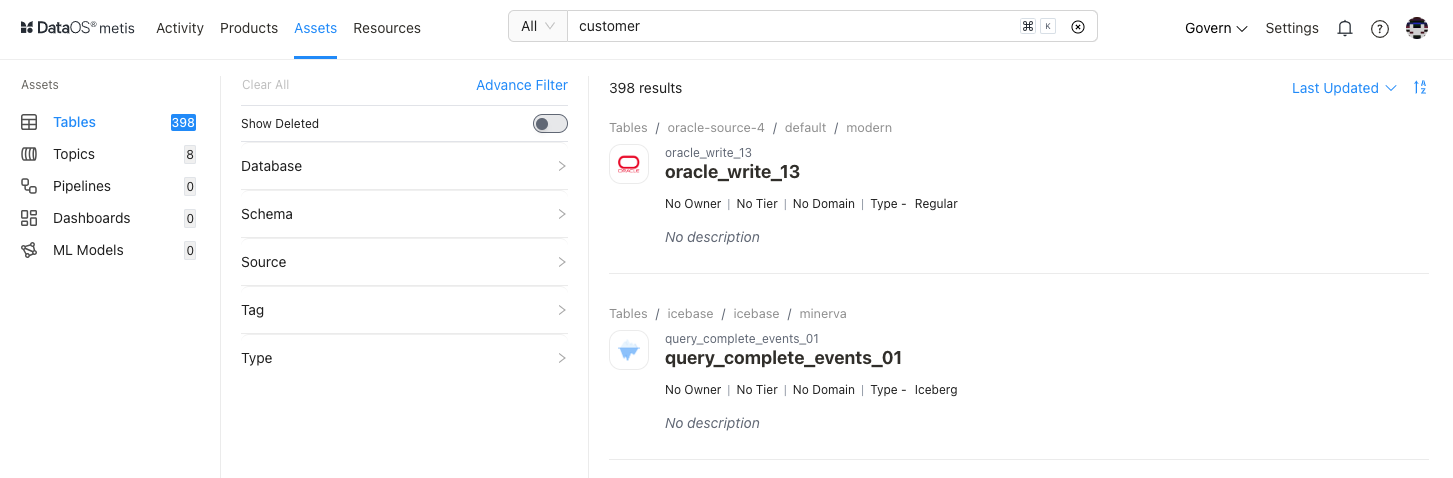
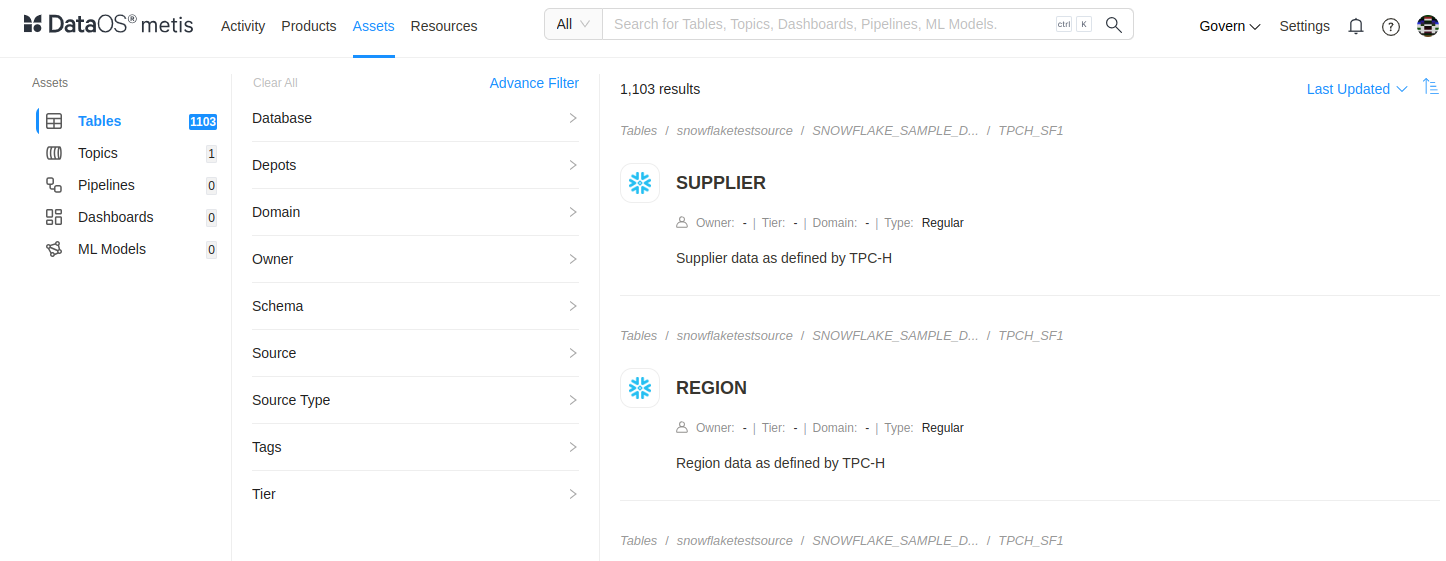
Metis UI Resources Lens and Features updated, mkdocs.yml updated with latest release changes

diff --git a/docs/interfaces/metis/metis_ui_resources/metis_resources_lenses.md b/docs/interfaces/metis/metis_ui_resources/metis_resources_lenses.md
@@ -1,0 +1,150 @@
+# Metadata of Lenses on Metis UI
+
+<aside class="callout">
+🗣 This page guides you on exploring and managing metadata for Lenses on Metis. 
+
+</aside>
+
+Metis has integrated "**Lens**" as a "Resource type" entity for storing metadata related to its entities. On selecting **Lens**, the following information will appear on the screen:
+
+![lenses.png](metis_resources_lenses/lenses.png)
+<figcaption align = "center"> List of Lenses  </figcaption>
+
+## Filter pane
+
+The filter pane allows you to filter the list of Lenses on the basis of the following attributes:
+
+| Attribute | Description |
+| --- | --- |
+| Advance Filter | Filter Lenses using the syntax editor, applying various criteria with 'and/or' conditions for a more refined search. |
+| Owner | Name of the user who created the Lens. |
+| Source | Source on top of which Lens is created. |
+| State | Lens state such as Active or Deleted. |
+| Tags | Filter the list for tags. |
+| Workspace | Workspace where the Lens is created, like public or user-specific. |
+
+## Result pane
+
+Here, Lenses will be listed. You can customize how the list is displayed. On top of the page, there are two options:
+
+| Option | Description |
+| --- | --- |
+| Search Result | Count of Lenses |
+| Sorting | Choose the Sorting order<br><ul><li>Last updated</li><br><li>Relevance</li><br><li>Ascending/Descending order</li></ul> |
+
+Each Lens in the list will display the following information:
+
+| Attribute | Description |
+| --- | --- |
+| Name | Lens name defined in the Resource manifest. |
+| Owner | Name of the user who created the Lens. |
+| Created | Time of creation of Lens |
+| Tier | Tier associated with the importance and criticality of Lens, such as Gold, Silver, etc. |
+| Domain | Associated domain, such as Finance, Marketing etc. |
+| Workspace | Workspace where the Lens is created like public or user-specific. |
+| State | Lens state such as Active or Deleted. |
+| Description | A description added to the Lens for its purpose. |
+| Tags | Associated tags |
+
+## Overview pane
+
+Click anywhere except the Lens name to view the overview pane. 
+
+![lens_overview.png](metis_resources_lenses/lens_overview.png)
+<figcaption align = "center"> Quick information  </figcaption>
+
+This includes the following quick reference information:
+
+| Attribute | Description |
+| --- | --- |
+| Name | Name of Lens, clicking on it will open its detail page in the new tab. |
+| Workspace | Workspace where Lens is created like public or user-specific. |
+| Version | Manifest Version |
+| State | Lens state such as Active or Deleted. |
+| Followers Count | Count of users who are following this Lens. |
+| Last updated | Date and time information when the Lens was last updated. |
+
+## Details Page
+
+In the Result or Overview pane, click on the name of the Lens to open the Resource Details page, which includes:
+
+![cluster_details.png](metis_resources_lenses/lens_details.png)
+<figcaption align = "center"> Comprehensive details  </figcaption>
+
+### **Cluster Information**
+In addition to basic Cluster information, the following details and options are provided.
+
+| Attribute | Description |
+| --- | --- |
+| Explore in Studio | Opens up Lens Studio for exploring the deployed Lens |
+| Iris | Opens up Iris dashboard |
+| Explore Assets | Explore assets on top of which Lens is built |
+| Meta Version | Provides information on the latest Meta version. Click to see the version history and corresponding updates.  |
+| Created | Time of creation of Lens |
+| Updated | Date and time information when the Lens was last updated  |
+| Follow | Gives the user an option to follow the Lens to receive updates and view its follower count. |
+| Learn | Provides an option to learn more about this specific resource type by redirecting to the documentation |
+| Delete | Gives the user the option to delete the Lens (click on three dots to access this option). |
+| Owner | Allow the user to edit the owner’s name. |
+| Tier | Gives the user an option to add/edit the tier information. |
+| Domain | Allows the user to add the predefined domain name. |
+| Tags | Add/Remove tags/glossary terms/tag groups. |
+| Request Tags Update (? icon) | Request updates in tags and assign users to do it. |
+| Description | Allows the user to edit the description |
+| Request Description Update (? icon) | Request updates in the description and assign users to do it |
+| Tasks | Option to view tasks created. In the side pane, the user will get the option to create a new task |
+| Conversations | View conversations in the side pane. The user will get the option to start a new conversation by clicking on the ‘+’ sign |
+
+The subsequent tabs will provide you with more detailed information, as explained in the following sections.
+
+### **Details**
+
+| Attribute | Description |
+| --- | --- |
+| Workspace | Workspace where Lens is created like public or user-specific |
+| Version | The specific version or release of the DataOS Lens Resource manifest |
+| State | Current state of the Resource such as Active or Deleted. |
+| Aggregate Status | Aggregate status of Lens |
+| Compute | Compute resources used for allocating processing power to Lens API instances, workers, and router |
+| Run As User | Authority granted to perform operations on behalf of the assigned user ID |
+| Life Cycle Events | Logs significant occurrences such as creation and deletion |
+
+### **Model**
+
+Renders a logical model of the deployed Lens.
+
+### **Permissions**
+
+Provides details related to the access permissions for the Lens.
+
+
+### **Activity Feeds & Tasks**
+
+This space lists all activities, including tasks and conversations around the specific Lens.
+
+### **Runtime**
+
+This section provides an overview of the Lens API Instances, Workers, and Router. 
+
+![lens_runtime.png](metis_resources_lenses/runtime.png)
+<figcaption align = "center">Runtime information </figcaption>
+
+You can access more details by clicking on the link.
+
+**{lens-name}-worker** 
+
+This option provides information about the Lens Worker instances.
+
+**{lens-name}-api**
+
+
+This option provides information about the Lens API instances.
+
+**{lens-name}-router**
+
+
+This option provides information about the Lens Router instances.
+
+### **Manifest**
+
+This section offers comprehensive information regarding the Lens's manifest. A manifest file, in this context, takes the form of a YAML configuration file. This file serves as the blueprint that defines the configuration settings for various DataOS Resources. 

diff --git a/docs/interfaces/metis/metis_ui_resources/metis_resources_clusters.md b/docs/interfaces/metis/metis_ui_resources/metis_resources_clusters.md
@@ -31,10 +31,7 @@ Here, Clusters will be listed. You can customize how the list is displayed. On t
 | Option | Description |
 | --- | --- |
 | Search Result | Count of Clusters |
-| Sorting | Choose the Sorting order
-- Last updated
-- Relevance
-- Ascending/Descending order. |
+| Sorting | Choose the Sorting order<br><ul><li>Last updated</li><br><li>Relevance</li><br><li>Ascending/Descending order</li></ul> |
 
 Each Cluster in the list will display the following information:
 
@@ -90,9 +87,9 @@ In addition to basic Cluster information, the following details and options are 
 | Domain | Allows the user to add the predefined domain name. |
 | State | Cluster state  |
 | Tags | Add/Remove tags/glossary terms/tag groups. |
-| Request Tags Update (?) | Request updates in tags and assign users to do it. |
+| Request Tags Update (? icon) | Request updates in tags and assign users to do it. |
 | Description | Allows the user to edit the description |
-| Request Description Update (?) | Request updates in the description and assign users to do it |
+| Request Description Update (? icon) | Request updates in the description and assign users to do it |
 | Tasks | Option to view tasks created. In the side pane, the user will get the option to create a new task |
 | Conversations | View conversations in the side pane. The user will get the option to start a new conversation by clicking on the ‘+’ sign |
 
@@ -109,9 +106,8 @@ The subsequent tabs will provide you with more detailed information, as explaine
 | Aggregate Status |  |
 | Compute | Compute resources used for allocating processing power; default is query-default |
 | Run As User | Authority granted to perform operations on behalf of the assigned user ID |
-| Configurations
-- Requests
-- Limits | CPU and Memory allocation |
+| Configurations <br><ul><li>Requests</li><br><li>Limits</li></ul> | CPU and Memory allocation |
+| Catalogs | List of queryable sources |
 | Life Cycle Events | Logs significant occurrences such as creation and deletion |
 
 ### **Activity Feeds & Tasks**

diff --git a/docs/interfaces/metis/metis_features.md b/docs/interfaces/metis/metis_features.md
@@ -25,7 +25,7 @@ With activity feeds, you can easily accomplish the following:
 
 ### **Search and Filter**
 
-Metis's search experience surfaces results across data assets, ML models, pipelines, dashboards, Resources, and more. 
+Metis's search experience surfaces results across data assets such as Tables, Topics, ML models, Pipelines, Dashboards, Resources, and more. 
 
 <center>
   <div style="text-align: center;">
@@ -35,12 +35,21 @@ Metis's search experience surfaces results across data assets, ML models, pipeli
 </center>
 
 
-Metis not only helps you find and access data using search criteria for your data products, assets and Resources, but it also allows you to **filter** them based on attributes such as tier, domain, source name, schema databases, tags, owners, etc. 
+Metis not only helps you find and access data using search criteria for your data products, assets and Resources, but it also allows you to **filter** them based on attributes such as database, depots, domain, owner, schema, source, source type, tags, tier, etc. 
 
 <center>
   <div style="text-align: center;">
     <img src="/interfaces/metis/metis_features/filter.png" alt="Filter" style="border:1px solid black;">
     <figcaption align="center"><i>Filter based on attributes</i></figcaption>
+  </div>
+</center>
+
+To narrow down the list of datasets, you can use the filter facet dropdown to select the specific depot you need. This action will refresh the dataset list, displaying only those that match your selected depot criteria.
+
+<center>
+  <div style="text-align: center;">
+    <img src="/interfaces/metis/metis_features/depot_filter.png" alt="Depot Filter" style="border:1px solid black;">
+    <figcaption align="center"><i>Filter based on Depot attribute</i></figcaption>
   </div>
 </center>
 
